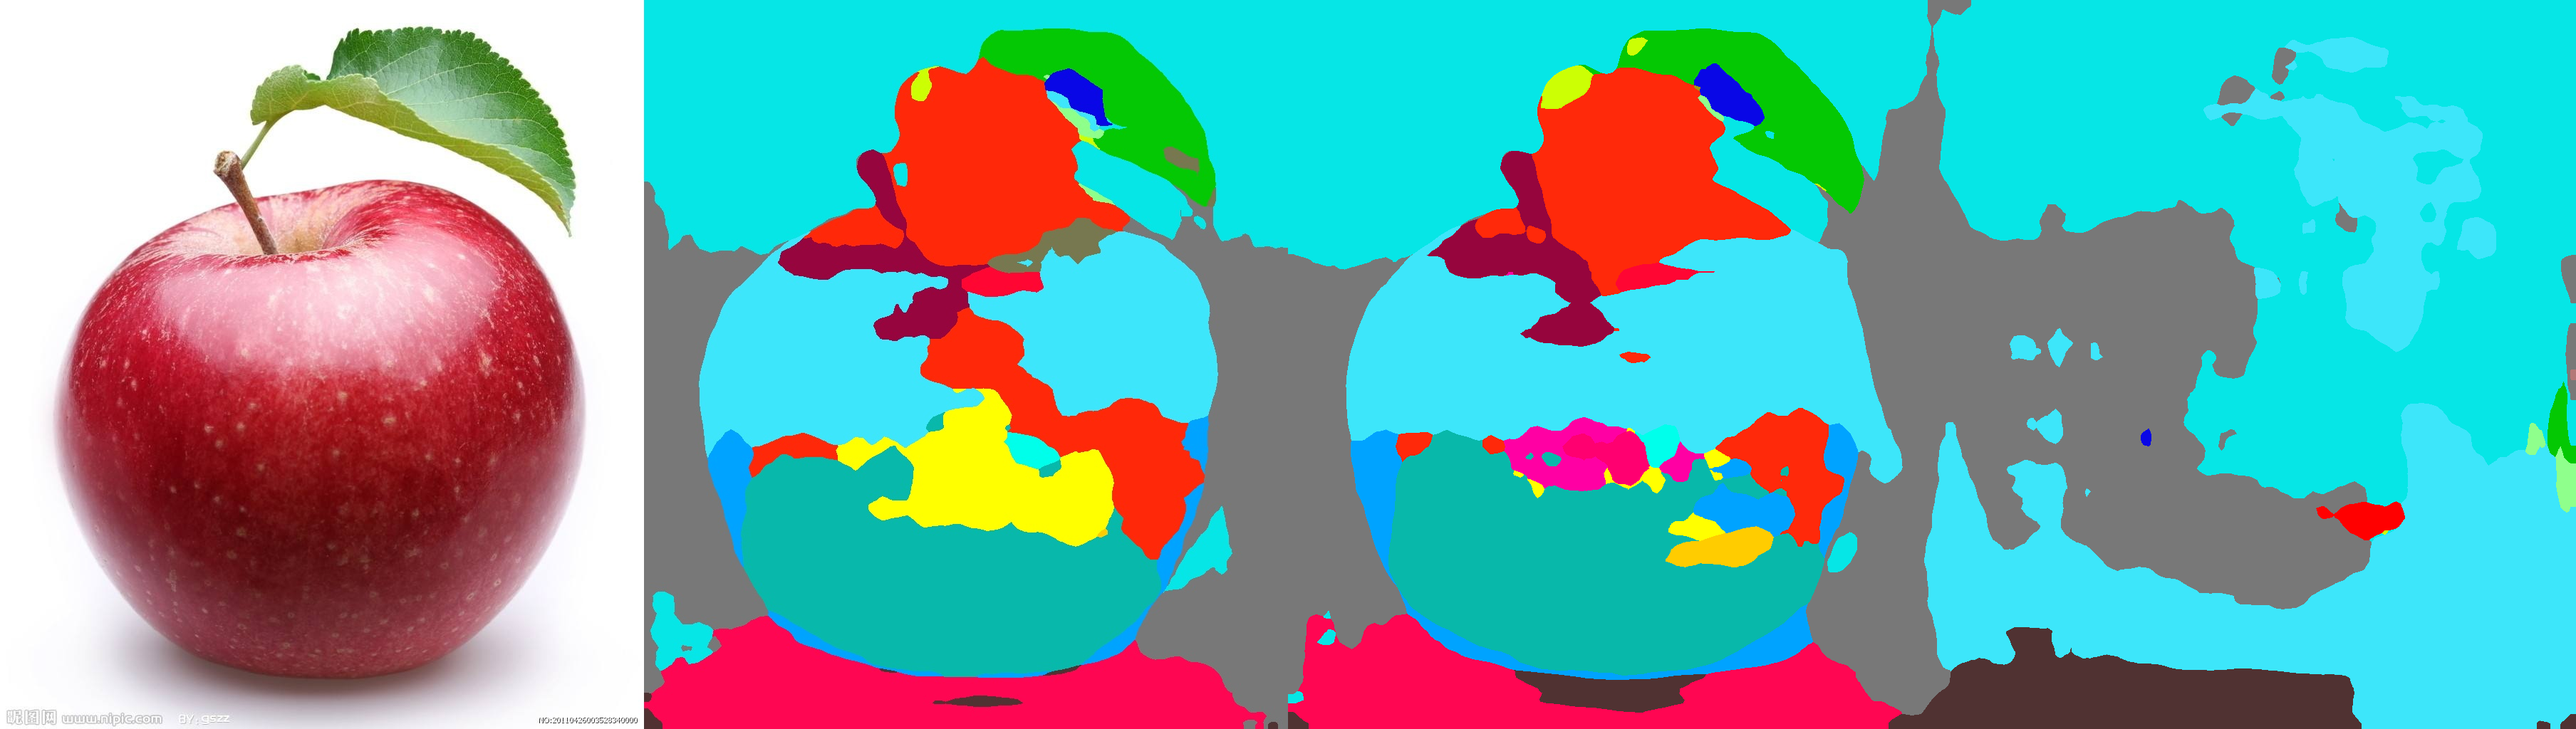
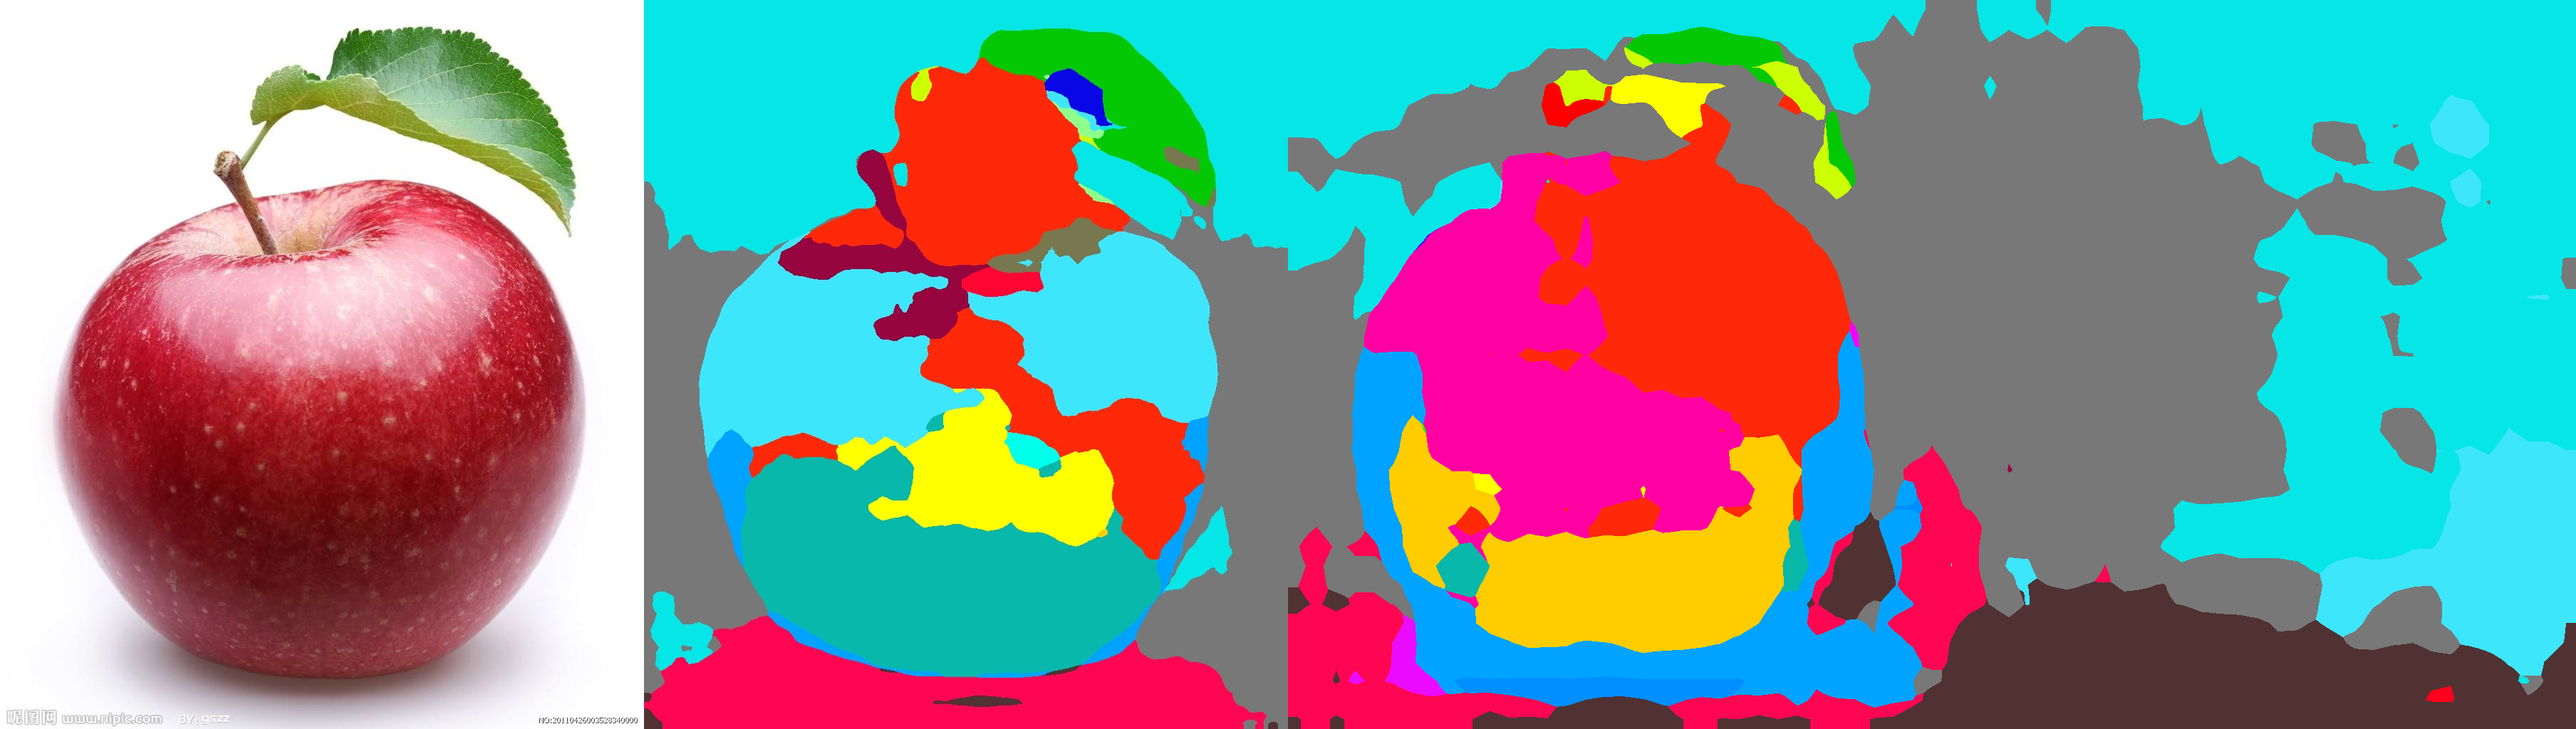
test on tx2

Changed region(s): [[0.5, 0.0, 1.0, 1.0], [0.7812, 0.4375, 0.8125, 0.5], [0.7812, 0.5625, 0.8125, 0.5938]]

diff --git a/segmentation/scripts/segmentation_ros.py b/segmentation/scripts/segmentation_ros.py
@@ -103,10 +103,10 @@ def load_model(args):
 class Segmentation(object):
     def __init__(self, segmentation_module, nums_class, padding_constant, rate=2):
         #self.image_sub = rospy.Subscriber("/kitti/camera_color_left/image_raw", Image, self.imageCallback, queue_size=2)
-        # self.image_sub = rospy.Subscriber("/usb_cam/image_raw", Image, self.imageCallback, queue_size=2)
-        # self.cloud_sub = rospy.Subscriber("/velodyne_points", PointCloud2, self.cloudCallback, queue_size=2)
-        self.image_sub = rospy.Subscriber("/self/camera/usv/image_raw", Image, self.imageCallback, queue_size=2)
-        self.cloud_sub = rospy.Subscriber("/velodyne_points2", PointCloud2, self.cloudCallback, queue_size=2)
+        self.image_sub = rospy.Subscriber("/usb_cam/image_raw", Image, self.imageCallback, queue_size=2)
+        self.cloud_sub = rospy.Subscriber("/velodyne_points", PointCloud2, self.cloudCallback, queue_size=2)
+        # self.image_sub = rospy.Subscriber("/self/camera/usv/image_raw", Image, self.imageCallback, queue_size=2)
+        # self.cloud_sub = rospy.Subscriber("/velodyne_points2", PointCloud2, self.cloudCallback, queue_size=2)
         self.count = 0
         # self.ts = message_filters.TimeSynchronizer([self.image_sub
         #                                             , self.cloud_sub
@@ -213,7 +213,7 @@ class Segmentation(object):
 
 def main(args):
     segmentation_module = load_model(args)
-    segmentation = Segmentation(segmentation_module, args.num_class, args.padding_constant)
+    segmentation = Segmentation(segmentation_module, args.num_class, args.padding_constant, rate=1)
 
     print('Inference done!')
 

diff --git a/segmentation/scripts/test.py b/segmentation/scripts/test.py
@@ -145,7 +145,7 @@ if __name__ == '__main__':
                         help='number of classes')
     parser.add_argument('--batch_size', default=1, type=int,
                         help='batchsize. current only supports 1')
-    parser.add_argument('--imgSize', default=[300, 400, 500, 600],
+    parser.add_argument('--imgSize', default=[300],
                         nargs='+', type=int,
                         help='list of input image sizes.'
                              'for multiscale testing, e.g. 300 400 500')
